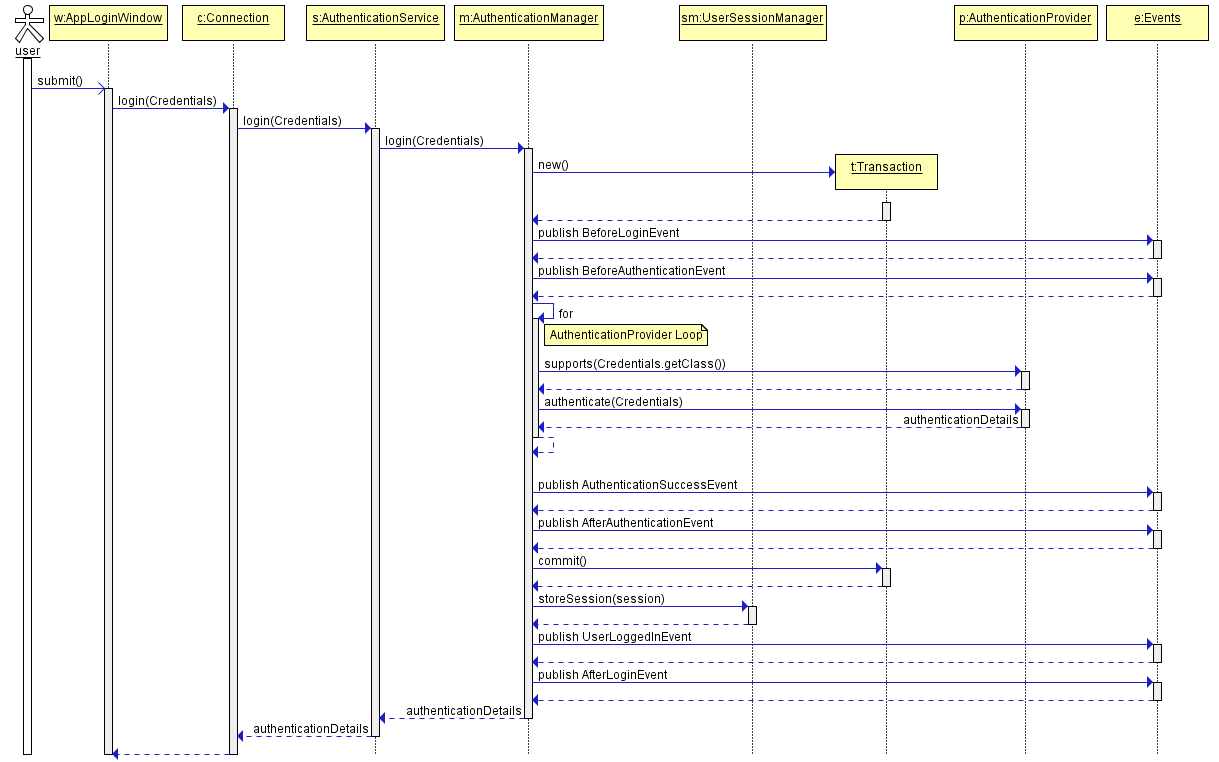
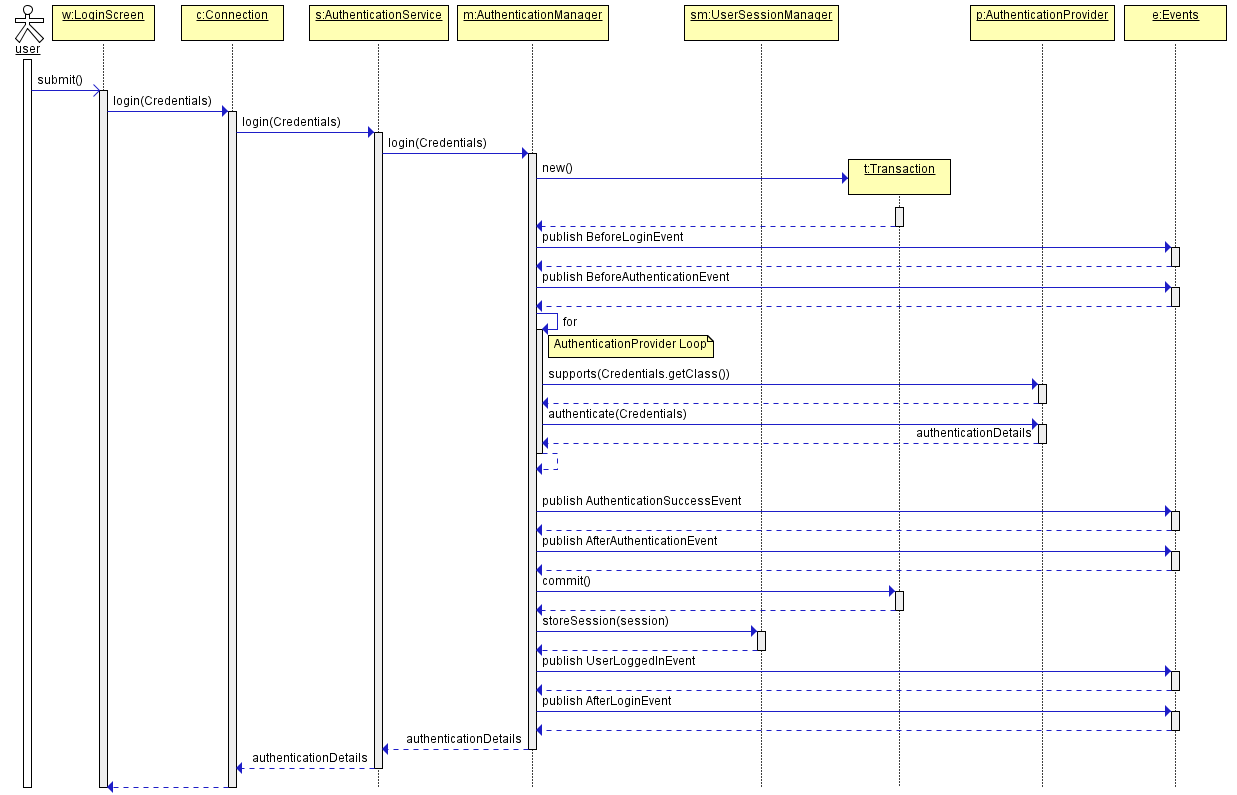
Document new Login and Main screens #397

Changed region(s): [[0.0, 0.0, 0.9664, 0.9961], [0.7793, 0.0, 0.9975, 0.0604], [0.5299, 0.0, 0.6858, 0.0604]]

diff --git a/content/manual/source/gui_vcl/appmenu.java b/content/manual/source/gui_vcl/appmenu.java
@@ -1,10 +1,12 @@
-public class ExtAppMainWindow extends AppMainWindow {
-
+public class ExtMainScreen extends MainScreen implements Window.HasFoldersPane {
+    
     @Inject
     private Notifications notifications;
+    @Inject
+    private AppMenu mainMenu;
 
     @Subscribe
-    protected void onInit(InitEvent event) {
+    public void onInit(InitEvent event) {
         AppMenu.MenuItem item = mainMenu.createMenuItem("shop", "Shop");
         AppMenu.MenuItem subItem = mainMenu.createMenuItem("customer", "Customers", null, menuItem -> {
             notifications.create()
